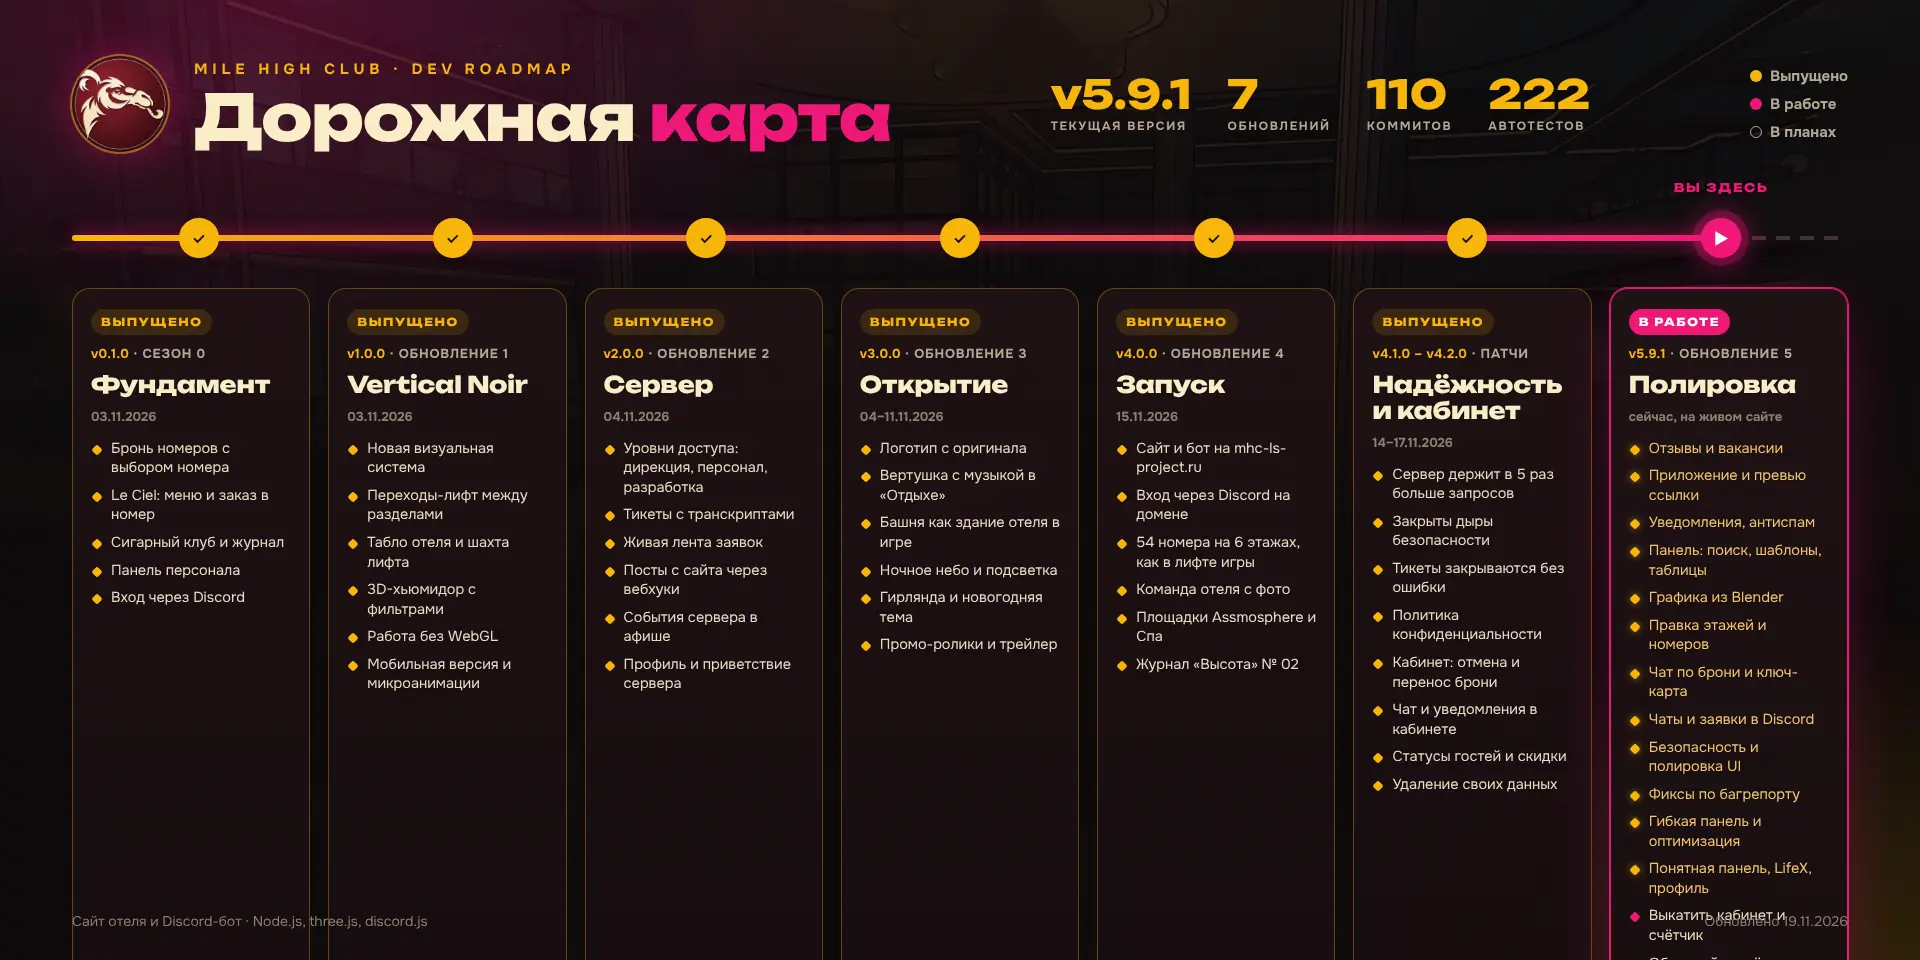
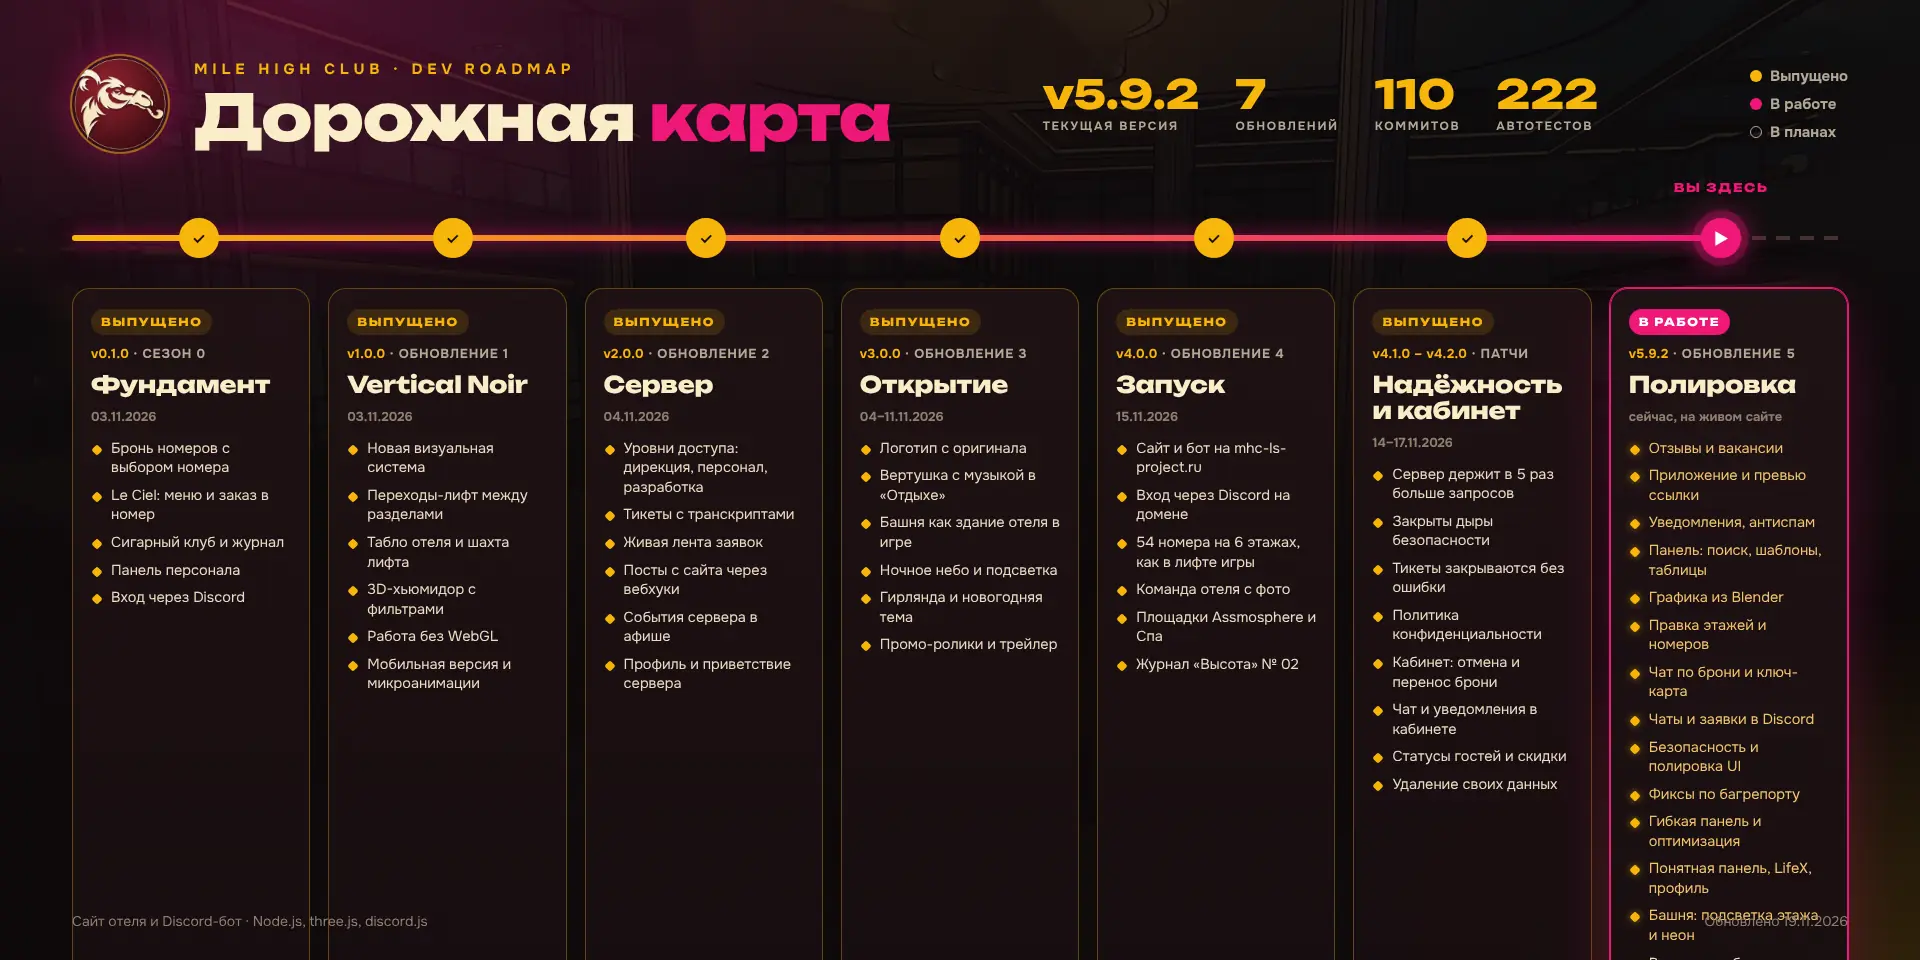
v5.9.2: наглядная подсветка этажа + неоновая вывеска башни из Blender
- skyline3d: выбранный этаж обводится яркой неоновой обоймой (светящаяся клетка
  по периметру + две неоновые полосы по верху и низу этажа, мягкий пульс) вместо
  прежней тонкой линии — сразу видно открытый этаж.
- Неоновая вертикальная вывеска MILE HIGH CLUB на правой башне: запечена в Blender
  (Cycles, эмиссия + Glare bloom), img/tower/neon-sign.webp (~13 КБ), аддитивный
  эмиссивный материал — светится без динамического света.
- Весь декор на эмиссивных материалах, без доп. источников света: вкладка Номера
  не тяжелее прежнего.
- Версия 5.9.2, README, CHANGELOG, дорожная карта.

Changed region(s): [[0.5312, 0.0625, 0.8438, 0.1562], [0.8438, 0.9375, 0.9375, 1.0], [0.875, 0.3438, 0.9375, 0.375]]

diff --git a/public/js/skyline3d.js b/public/js/skyline3d.js
@@ -104,7 +104,7 @@ function loadKit() {
   }).catch(() => null);
 }
 function loadBake() {
-  return Promise.all(['env-night', 'fac-glass', 'fac-lit', 'room', 'shadow', 'city-fac'].concat(document.documentElement.dataset.mode === 'day' ? ['env-day'] : []).map(n => new Promise(ok => {
+  return Promise.all(['env-night', 'fac-glass', 'fac-lit', 'room', 'shadow', 'city-fac', 'neon-sign'].concat(document.documentElement.dataset.mode === 'day' ? ['env-day'] : []).map(n => new Promise(ok => {
     const i = new Image(); i.decoding = 'async'; i.onload = () => { BAKE[n] = i; ok(); }; i.onerror = () => ok(); i.src = BAKE_URL + n + '.webp' + BAKE_V;
   })));
 }
@@ -506,6 +506,12 @@ export function mountTower(host, { onPick, onPickVenue, onSpin, onHoverFloor }) 
     drawSign(null); { const im = new Image(); im.onload = () => drawSign(im); im.src = 'img/camel-mask.png'; }
     const signM = new THREE.MeshBasicMaterial({ map: st, transparent: true, depthWrite: false, toneMapped: false, color: 0xe9e2d6 });
     const sign = new THREE.Mesh(new THREE.PlaneGeometry(4, .75), signM); sign.position.set(-.1, topY - 1.15, D / 2 + .03); root.add(sign);
+    // неоновая вертикальная вывеска на правой башне (запечена в Blender: эмиссия + bloom). Аддитивная — светится без динамического света, ПК не грузит
+    if (BAKE['neon-sign']) {
+      const nt = new THREE.Texture(BAKE['neon-sign']); nt.colorSpace = THREE.SRGBColorSpace; nt.anisotropy = 4; nt.needsUpdate = true;
+      const nsign = new THREE.Mesh(new THREE.PlaneGeometry(1.42, 3.4), new THREE.MeshBasicMaterial({ map: nt, transparent: true, depthWrite: false, toneMapped: false, blending: THREE.AdditiveBlending }));
+      nsign.position.set(VOL.C.x, topC - 2.3, VOL.C.z + VOL.C.d / 2 + .05); root.add(nsign);
+    }
     // ниша между A и C: баннер отеля в тонах сайта, приглушённый, в стальной раме
     const bc = document.createElement('canvas'); bc.width = 256; bc.height = 768; const bx = bc.getContext('2d'), bt = new THREE.CanvasTexture(bc); bt.colorSpace = THREE.SRGBColorSpace;
     const drawBanner = img => { const gr = bx.createLinearGradient(0, 0, 0, 768); gr.addColorStop(0, '#1a0d10'); gr.addColorStop(.55, '#3b1119'); gr.addColorStop(1, '#59161e'); bx.fillStyle = gr; bx.fillRect(0, 0, 256, 768); bx.strokeStyle = 'rgba(247,181,10,.55)'; bx.lineWidth = 3; bx.strokeRect(14, 14, 228, 740);
@@ -564,8 +570,15 @@ export function mountTower(host, { onPick, onPickVenue, onSpin, onHoverFloor }) 
     // площадь перед отелем: плитка в тон камня
     const tile = (() => { const c = document.createElement('canvas'); c.width = c.height = 128; const g = c.getContext('2d'); g.fillStyle = '#4a4744'; g.fillRect(0, 0, 128, 128); g.fillStyle = '#56524e'; for (let i = 0; i < 4; i++) for (let j = 0; j < 4; j++) if ((i + j) % 2) g.fillRect(i * 32, j * 32, 32, 32); const t = new THREE.CanvasTexture(c); t.wrapS = t.wrapT = THREE.RepeatWrapping; t.repeat.set(12, 4); t.colorSpace = THREE.SRGBColorSpace; return t; })();
     const plaza = new THREE.Mesh(new THREE.PlaneGeometry(W + VOL.C.w + 8, 6), new THREE.MeshStandardMaterial({ map: tile, roughness: .95 })); plaza.rotation.x = -Math.PI / 2; plaza.position.set(2.2, .01, D / 2 + 3); root.add(plaza);
-    // подсветка выбранного этажа: тонкое неоновое кольцо
-    hl = new THREE.LineLoop(new THREE.BufferGeometry().setFromPoints(outline(1.07).map(([x, z]) => new THREE.Vector3(x, 0, z))), new THREE.LineBasicMaterial({ color: 0xf7b50a, toneMapped: false, transparent: true, opacity: 0 })); root.add(hl);
+    // подсветка выбранного этажа: наглядная неоновая обойма — светящаяся «клетка» по периметру + две яркие неоновые ПОЛОСЫ по верху и низу этажа (не тонкие линии), с мягким пульсом
+    hl = new THREE.Group();
+    const cageMat = new THREE.MeshBasicMaterial({ color: 0xffbe2e, transparent: true, opacity: 0, blending: THREE.AdditiveBlending, depthWrite: false, side: THREE.DoubleSide, toneMapped: false });
+    const bandMat = new THREE.MeshBasicMaterial({ color: 0xfff0c0, transparent: true, opacity: 0, blending: THREE.AdditiveBlending, depthWrite: false, side: THREE.DoubleSide, toneMapped: false });
+    const hlCage = new THREE.Mesh(ringGeo(outline(1.14), FH * .9, 0, true), cageMat); hl.add(hlCage);
+    const hlBandBot = new THREE.Mesh(ringGeo(outline(1.17), .12, -.06, true), bandMat); hl.add(hlBandBot);
+    const hlBandTop = new THREE.Mesh(ringGeo(outline(1.17), .12, FH * .9 - .06, true), bandMat); hl.add(hlBandTop);
+    hl.userData.parts = [{ m: cageMat, on: .42 }, { m: bandMat, on: .9 }];
+    root.add(hl);
     // снег на крышах, подиуме и козырьке
     snowCaps = new THREE.Group(); snowCaps.visible = false; root.add(snowCaps);
     const snowM = new THREE.MeshStandardMaterial({ color: 0xf6f3ee, roughness: .9, metalness: 0 });
@@ -607,7 +620,7 @@ export function mountTower(host, { onPick, onPickVenue, onSpin, onHoverFloor }) 
     if (k !== built) build(rooms); else if (rooms.map(r => r.status).join() !== curRooms.map(r => r.status).join()) retexture(rooms);
     curRooms = rooms; sel = floor;
     const fm = hotel.find(m => m.userData.floor === sel); camTargetY = fm ? fm.position.y + root.position.y : topY * .5;
-    if (fm && hl) { hl.position.y = fm.position.y + FH * .42; hl.scale.setScalar(fm.userData.s); }
+    if (fm && hl) { hl.position.y = fm.position.y - FH * .01; hl.scale.setScalar(fm.userData.s); }
     kick();
   }
 
@@ -663,7 +676,7 @@ export function mountTower(host, { onPick, onPickVenue, onSpin, onHoverFloor }) 
     venueMeshes.forEach(m => { const L = m.userData.light, t2 = hoverV === m.userData.venue ? 1.9 : 1; if (L.emissiveIntensity != null) L.emissiveIntensity += (t2 - L.emissiveIntensity) * Math.min(1, dt * 8); else L.opacity += ((hoverV === m.userData.venue ? .95 : .55) - L.opacity) * Math.min(1, dt * 8); });
     poolWater.forEach(w => { w.emissiveIntensity = .55 + .15 * Math.sin(t / 700); });
     floors.forEach(m => { const on = m.userData.floor === sel, hv = m.userData.floor === hover; const target = on ? 1.6 + pulse : hv && m.userData.hotel ? 1.25 : m.userData.hotel ? (sel !== null ? 0.75 : 1) : officeK; m.material.emissiveIntensity += (target - m.material.emissiveIntensity) * Math.min(1, dt * 8); const sc = on ? 1.035 : 1; m.scale.x += (sc - m.scale.x) * Math.min(1, dt * 8); m.scale.z = m.scale.x; m.userData.slab?.scale.set(m.scale.x, 1, m.scale.x); });
-    if (hl) hl.material.opacity += ((sel !== null ? .9 : 0) - hl.material.opacity) * Math.min(1, dt * 6);
+    if (hl) { const vis = sel !== null ? 1 : 0, pz = .82 + .18 * Math.sin(t / 360); hl.userData.parts.forEach(p => { p.m.opacity += (p.on * vis * pz - p.m.opacity) * Math.min(1, dt * 6); }); }
     if (beacon) beacon.material.color.setHSL(0.05, .9, 0.42 + Math.max(0, Math.sin(t / 420)) * 0.18);
     beacons.material.opacity = .55 + .45 * Math.sin(t / 500);
     const s = t / 1000; cars.forEach((c, i) => { c.p += c.v * c.dir * dt; if (c.p > 63) c.p = -63; if (c.p < -63) c.p = 63; const x = c.axis ? c.line : c.p, z = c.axis ? c.p : c.line; carPos[i * 3] = x; carPos[i * 3 + 1] = GROUND + .12; carPos[i * 3 + 2] = z; }); carG.attributes.position.needsUpdate = true;

diff --git a/docs/roadmap/roadmap.html b/docs/roadmap/roadmap.html
@@ -58,7 +58,7 @@ li.ok::before{background:var(--gold)}
 <div class="bgimg"></div><div class="glow"></div>
 <div class="wrap">
 <header><img src="../../public/img/emblem.webp" alt=""><div><div class="eb">Mile High Club · dev roadmap</div><h1>Дорожная <span>карта</span></h1></div>
-<div class="stats"><div><span class="big" data-current>v5.9.1</span><small>текущая версия</small></div><div><span class="big">7</span><small>обновлений</small></div><div><span class="big">110</span><small>коммитов</small></div><div><span class="big">222</span><small>автотестов</small></div></div>
+<div class="stats"><div><span class="big" data-current>v5.9.2</span><small>текущая версия</small></div><div><span class="big">7</span><small>обновлений</small></div><div><span class="big">110</span><small>коммитов</small></div><div><span class="big">222</span><small>автотестов</small></div></div>
 <div class="legend"><span><i style="background:var(--gold)"></i>Выпущено</span><span><i style="background:var(--pink)"></i>В работе</span><span><i style="border:1.5px solid var(--mut)"></i>В планах</span></div></header>
 
 <div class="track"><div class="rail"></div><div class="prog" style="--p:92.86"></div>
@@ -83,7 +83,7 @@ li.ok::before{background:var(--gold)}
 <div class="c done"><span class="tag">ВЫПУЩЕНО</span><div class="ver"><b>v4.1.0 – v4.2.0</b> · ПАТЧИ</div><h2>Надёжность и кабинет</h2><div class="date">14–17.11.2026</div><ul>
 <li>Сервер держит в 5 раз больше запросов</li><li>Закрыты дыры безопасности</li><li>Тикеты закрываются без ошибки</li><li>Политика конфиденциальности</li><li>Кабинет: отмена и перенос брони</li><li>Чат и уведомления в кабинете</li><li>Статусы гостей и скидки</li><li>Удаление своих данных</li></ul></div>
 
-<div class="c now"><span class="tag">В РАБОТЕ</span><div class="ver"><b data-current>v5.9.1</b> · ОБНОВЛЕНИЕ 5</div><h2>Полировка</h2><div class="date">сейчас, на живом сайте</div><ul>
-<li class="ok">Отзывы и вакансии</li><li class="ok">Приложение и превью ссылки</li><li class="ok">Уведомления, антиспам</li><li class="ok">Панель: поиск, шаблоны, таблицы</li><li class="ok">Графика из Blender</li><li class="ok">Правка этажей и номеров</li><li class="ok">Чат по брони и ключ-карта</li><li class="ok">Чаты и заявки в Discord</li><li class="ok">Безопасность и полировка UI</li><li class="ok">Фиксы по багрепорту</li><li class="ok">Гибкая панель и оптимизация</li><li class="ok">Понятная панель, LifeX, профиль</li><li>Выкатить кабинет и счётчик</li><li>Обратный отсчёт до открытия</li><li>«Персонал на смене»</li><li>Замер скорости и отчёт</li><li>Подключить LifeX</li></ul></div>
+<div class="c now"><span class="tag">В РАБОТЕ</span><div class="ver"><b data-current>v5.9.2</b> · ОБНОВЛЕНИЕ 5</div><h2>Полировка</h2><div class="date">сейчас, на живом сайте</div><ul>
+<li class="ok">Отзывы и вакансии</li><li class="ok">Приложение и превью ссылки</li><li class="ok">Уведомления, антиспам</li><li class="ok">Панель: поиск, шаблоны, таблицы</li><li class="ok">Графика из Blender</li><li class="ok">Правка этажей и номеров</li><li class="ok">Чат по брони и ключ-карта</li><li class="ok">Чаты и заявки в Discord</li><li class="ok">Безопасность и полировка UI</li><li class="ok">Фиксы по багрепорту</li><li class="ok">Гибкая панель и оптимизация</li><li class="ok">Понятная панель, LifeX, профиль</li><li class="ok">Башня: подсветка этажа и неон</li><li>Выкатить кабинет и счётчик</li><li>Обратный отсчёт до открытия</li><li>«Персонал на смене»</li><li>Замер скорости и отчёт</li><li>Подключить LifeX</li></ul></div>
 </div></div>
 <div class="foot"><span>Сайт отеля и Discord-бот · Node.js, three.js, discord.js</span><span>Обновлено 19.11.2026</span></div>

diff --git a/README.md b/README.md
@@ -6,7 +6,7 @@
 
 **Сайт отеля над Лос-Сантосом и Discord-бот для GTA RP**
 
-Текущая версия: **<!--ver-->v5.9.1<!--/ver-->**
+Текущая версия: **<!--ver-->v5.9.2<!--/ver-->**
 
 Бронь номеров на 3D-башне · Le Ciel и заказ в номер · сигарный клуб · журнал · обращения с тикетами в Discord · панель персонала
 
@@ -17,6 +17,12 @@
 ![Главная: атриум отеля](docs/img/home.webp)
 
 ## Последнее обновление
+
+**v5.9.2 · Башня · 19.11.2026**
+
+- **Наглядный выбор этажа.** Вместо тонкой линии выбранный этаж обводится яркой неоновой обоймой: светящаяся «клетка» по периметру и две неоновые полосы по верху и низу этажа, с мягким пульсом. Сразу видно, какой этаж открыт.
+- **Неоновая вывеска «MILE HIGH CLUB»** на правой башне — запечена в Blender (эмиссия + bloom), светится без динамического света, поэтому ПК не грузит. Здание стало живее и интереснее.
+- Всё декоративное — на эмиссивных материалах (без дополнительных источников света): вкладка «Номера» не тяжелее прежнего.
 
 **v5.9.1 · Фикс · 19.11.2026**
 

diff --git a/CHANGELOG.md b/CHANGELOG.md
@@ -7,6 +7,7 @@
 Номер версии хранится в `package.json` и виден на сайте (подвал) и в панели персонала. Новая версия — `npm run release -- patch|minor|major "Название"`.
 
 <!--versions-->
+- **v5.9.2** · 19.11.2026 · Башня: наглядная подсветка этажа + неоновая вывеска из Blender
 - **v5.9.1** · 19.11.2026 · Окна зданий больше не бликают: LOD-эмиссия + запечённый в Blender фасад
 - **v5.9.0** · 19.11.2026 · Понятная панель с иконками, LifeX-тумблер, профиль, размер доски, оптимизация окон
 - **v5.8.0** · 19.11.2026 · Доска: вид по этажам или колонки по статусу, окошки сайта в настройках, оптимизация
